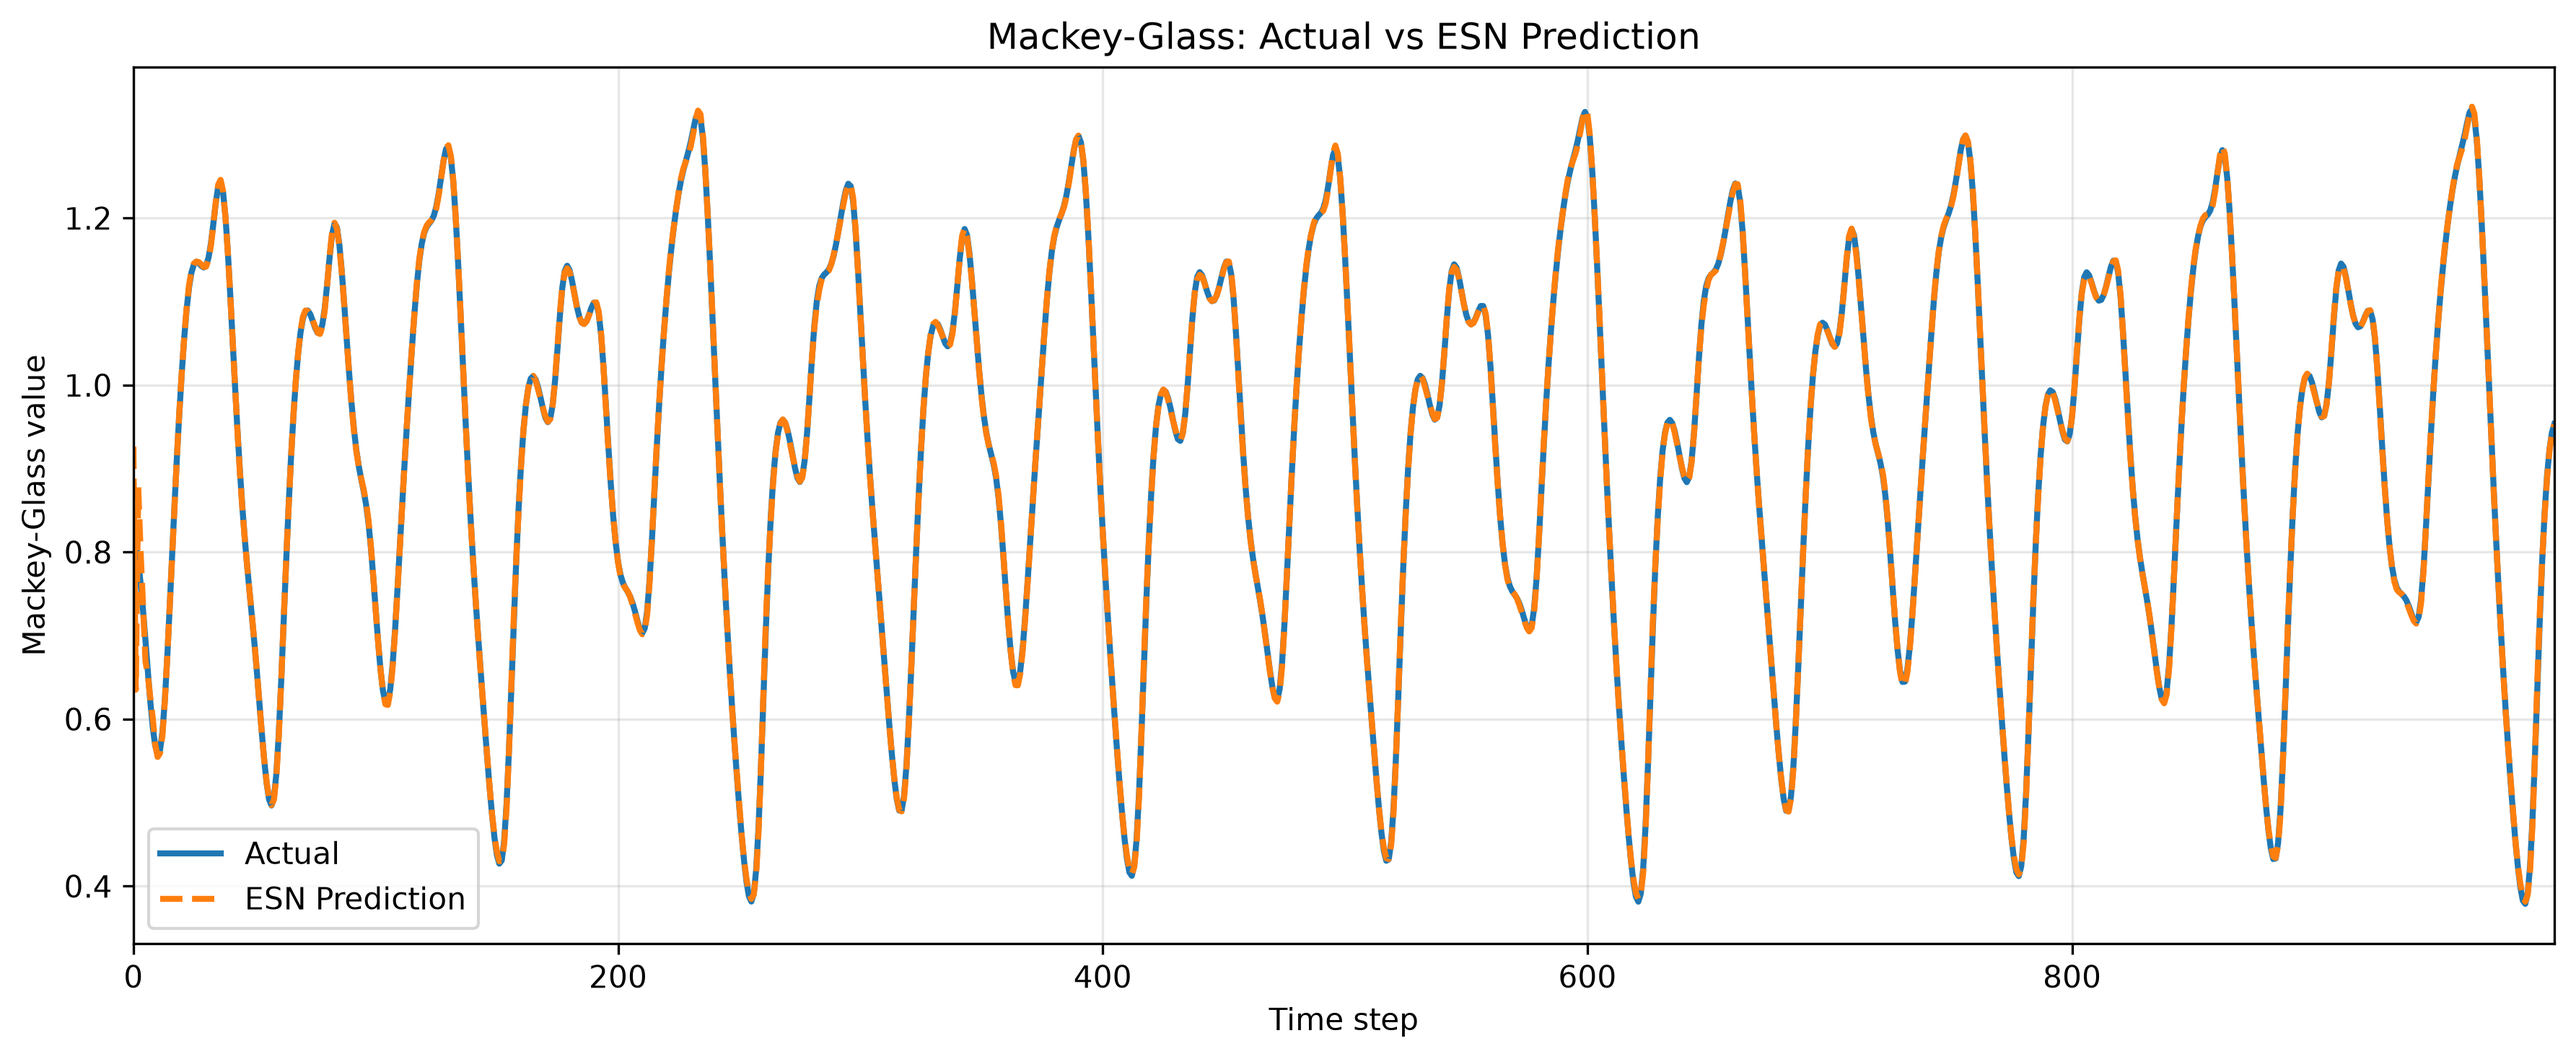
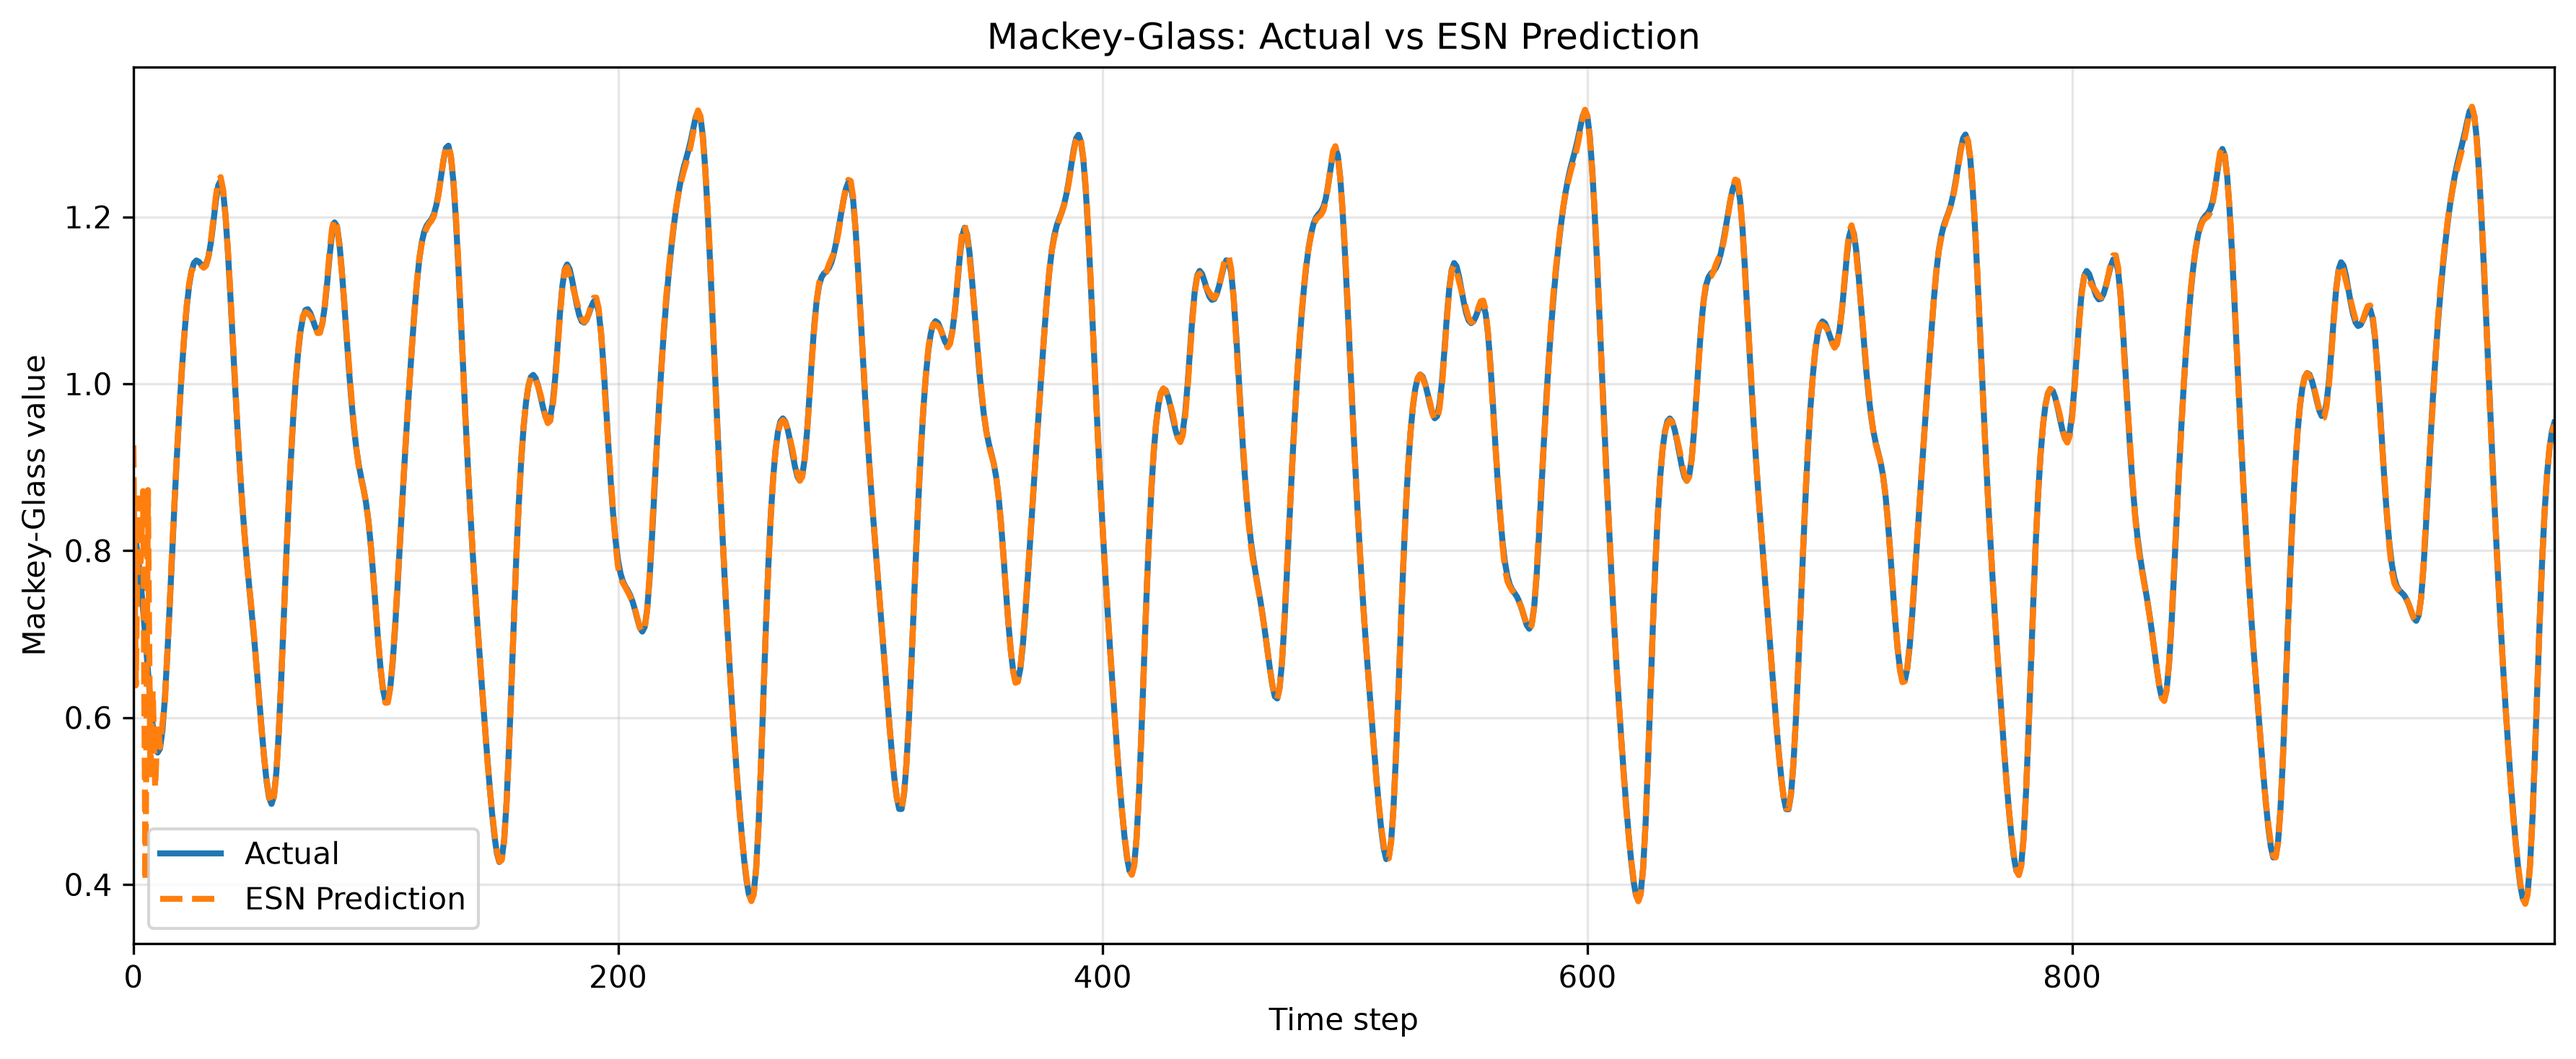
Optimized ESN with professor's slides

diff --git a/source_code/esn_model.py b/source_code/esn_model.py
@@ -87,17 +87,29 @@ class EchoStateNetwork(nn.Module):
         Desired spectral radius of the recurrent reservoir matrix.
     """
 
-    def __init__(self, reservoir_size, spectral_radius):
+    def __init__(self, reservoir_size, spectral_radius, reservoir_connectivity, input_scaling, alpha, washout, ridge):
         super().__init__()
 
         self.reservoir_size = reservoir_size
+        self.alpha = alpha
+        self.washout = washout
+        self.ridge = ridge
 
-        # Reservoir weights
-        W_res = torch.rand(
+        # Random reservoir weights in [-1, 1]
+        W_res = 2 * torch.rand(
             reservoir_size,
             reservoir_size,
             dtype=torch.float32
-        ) - 0.5
+        ) - 1
+
+        # Random connectivity mask
+        mask = torch.rand(
+            reservoir_size,
+            reservoir_size
+        ) <= reservoir_connectivity
+
+        # Sparsity requirement of reservoir weights
+        W_res = W_res * mask
 
         # Compute current spectral radius
         eigenvalues = torch.linalg.eigvals(W_res)
@@ -110,11 +122,13 @@ class EchoStateNetwork(nn.Module):
         self.register_buffer("W_res", W_res)
 
         # Input weights
-        W_in = torch.rand(
-            reservoir_size,
-            1,
-            dtype=torch.float32
-        ) - 0.5
+        W_in = (
+            2 * torch.rand(
+                reservoir_size,
+                1,
+                dtype=torch.float32
+            ) - 1
+        ) * input_scaling
 
         self.register_buffer("W_in", W_in)
 
@@ -142,11 +156,14 @@ class EchoStateNetwork(nn.Module):
             device=input_data.device
         )
 
+        # Leaky integration
         for t in range(1, len(input_data)):
-
-            reservoir_states[t] = torch.tanh(
-                self.W_res @ reservoir_states[t - 1]
-                + (self.W_in @ input_data[t]).squeeze()
+            reservoir_states[t] = (
+                self.alpha * reservoir_states[t - 1]
+                + (1 - self.alpha) * torch.tanh(
+                    self.W_res @ reservoir_states[t - 1]
+                    + (self.W_in @ input_data[t]).squeeze()
+                )
             )
 
         return reservoir_states
@@ -165,10 +182,21 @@ class EchoStateNetwork(nn.Module):
 
         reservoir_states = self.run_reservoir(input_data)
 
-        # Compute output weights analytically
-        self.W_out = (
-            torch.linalg.pinv(reservoir_states)
-            @ target_data
+        # Discard the washout phase
+        X = reservoir_states[self.washout:]
+        Y = target_data[self.washout:]
+
+        # Identity matrix for ridge regularization
+        I = torch.eye(
+            X.shape[1],
+            device=X.device,
+            dtype=X.dtype
+        )
+
+        # Compute output weights using ridge regression
+        self.W_out = torch.linalg.solve(
+            X.T @ X + self.ridge * I,
+            X.T @ Y
         )
 
     def forward(self, input_data):
@@ -232,10 +260,17 @@ def run_esn(train_norm, val_norm, test_norm, config, device):
     # Model initialization
     model = EchoStateNetwork(
         reservoir_size=config["reservoir_size"],
-        spectral_radius=config["spectral_radius"]
+        spectral_radius=config["spectral_radius"],
+        reservoir_connectivity=config["reservoir_connectivity"],
+        input_scaling=config["input_scaling"],
+        alpha = config["alpha"],
+        washout = config["washout"],
+        ridge=config["ridge"]
     ).to(device)
     X_train = X_train.to(device)
     y_train = y_train.to(device)
+    X_val = X_val.to(device)
+    X_test = X_test.to(device)
 
     # Training model
     if device.type == "cuda":
